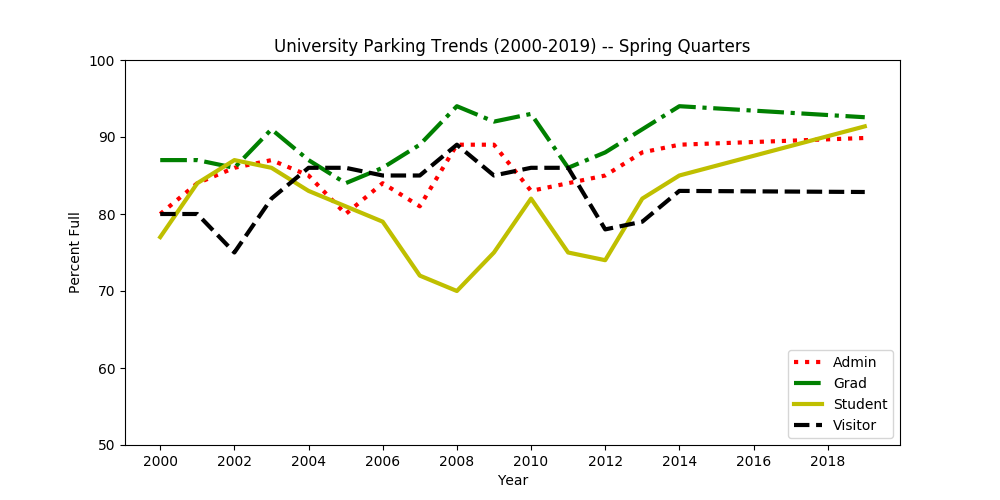
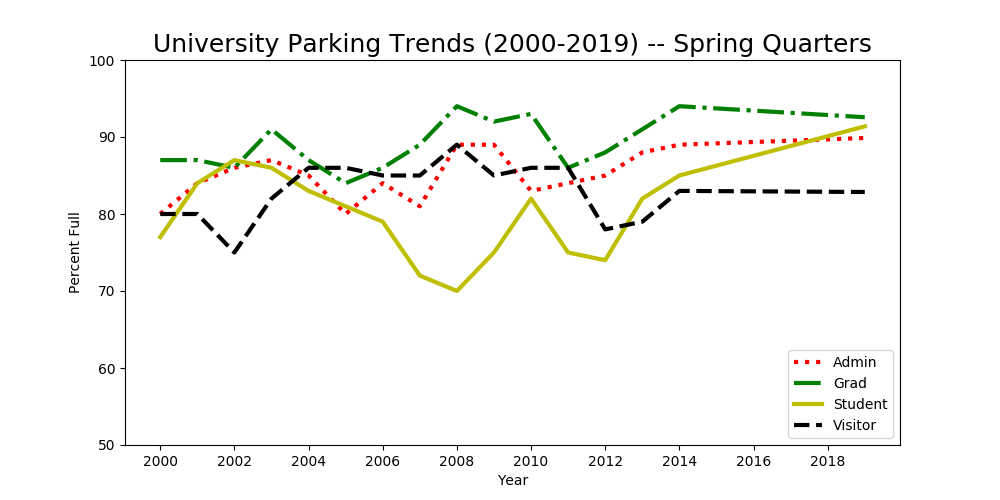
Final code functionality update

Changed region(s): [[0.155, 0.06, 0.868, 0.12]]

diff --git a/historical_peaks.py b/historical_peaks.py
@@ -1,77 +1,61 @@
-# read files by s, b, a. find area with best probability at a certain time
-# 1. collect all by s, b, or a 
-# 2. how have peak times changed
 import pandas as pd 
 import numpy as np 
 import matplotlib.pyplot as plt
 import matplotlib.dates as md
 import datetime as dt   
-from find_parking import *
+from find_parking import collect_dictionary
+from xcel_to_df import xcel_to_df
 
 def main():
 
-    quarter = 'Spring'
-    ax = compare_university(quarter)
+    # quarter = 'Spring'
+    # ax = compare_university(quarter)
 
-    ax.plot()
-    plt.yticks(np.arange(50, 101, step=10))
-    plt.title('University Parking Trends (2000-2019) -- '+quarter+' Quarters')
-    plt.ylabel('Percent Full')
-    plt.xlabel('Year')
+    dist_2000 = get_spot_distribution(2000)
+    dist_2015 = get_spot_distribution(2015)
+    dist_2019 = get_spot_distribution(2019)
 
-    plt.legend(loc = 'lower right')
-    plt.xticks(range(2000, 2020))
-    plt.locator_params(axis='x', nbins=10)
+    plt.subplot(1, 3, 1)
+    plt.pie(dist_2000, autopct='%1.0f%%', colors=['red', 'green', '#FFC133', 'gray'])
+    plt.title('Year 2000')
 
-    plt.savefig('images/'+quarter+'_history.png')
+    plt.subplot(1, 3, 2)
+    plt.pie(dist_2019, autopct='%1.0f%%',  colors=['red', 'green', '#FFC133', 'gray'])
+    plt.title('Year 2019')
+
+    plt.subplot(1, 3, 3)
+    plt.pie(dist_2015, autopct='%1.0f%%',  colors=['red', 'green', '#FFC133', 'gray'])
+    plt.title('Year 2015')
+
+
+    plt.legend(['Admin (A)', 'Grad (B)', 'Student (S)', 'Visitor (V)'], loc = 'lower left', bbox_to_anchor=(-0.4, -.24, 0.5, 0.5))
+    plt.savefig('Spot Distributions', dpi=300)
     
 
-def where_to_park(quarter='Fall', time='10am', spot_type='S'):
-    '''
-    Based on past data, which area of campus are you most likeley to find a spot 
-    at? Provide the user with a few visuals so they can determine where they 
-    would like to go to
+    # ax.plot()
+    # plt.yticks(np.arange(50, 101, step=10))
+    # plt.title('University Parking Trends (2000-2019) -- '+quarter+' Quarters', fontsize=18)
+    # plt.ylabel('Percent Full')
+    # plt.xlabel('Year')
+# 
+    # plt.legend(loc = 'lower right')
+    # plt.xticks(range(2000, 2020))
+    # plt.locator_params(axis='x', nbins=10)
+# 
+    # plt.savefig('images/'+quarter+'_history.png')
     
-    Note:   I will work on this in this application later, I just want to get what
-            I have up on github incase we can't all meet with the TA together
-                -Matthew
-    '''
-    pass
-    
-def view_quarter_peaks():
-    '''
-    See how the peak times change for a specific quarter through the years
-    
-    NOTE:   This visualization seems confusing and will probably not be used or
-            the visualization should be changed before use. 
-                -Matthew
-    '''
-    df = pd.read_csv('csv_data/University-wide/University_of_California,_San_Diego__A_Parking_Spaces.csv')
-    fall = df.loc[df['quarter'] == 'Spring']
-    f_times = fall.loc[:,'8am':'5pm']
-    years = fall.loc[:, 'year'].values
-  
-    s_yr = []
-    
-    for el in years:      
-        s_yr.append(el[2:el.find('/')]) # change 2000/01 --> 00 for all years
-        
-    
-    str_times = f_times.idxmin(axis=1) # returns the column where the Peak time occurs
-
-    fixed = ['12pm' if el=='12am' else el for el in str_times]
-
-    peak_times = pd.to_datetime(fixed, format='%I%p')
-  
-    df = pd.DataFrame({'peak':peak_times.values, 'year' : s_yr})
-     
-    plt.plot(df.year, df.peak)
-    plt.xticks(s_yr)
-
 def compare_university(quarter_name):
     '''
-    Shows A,B,S usage trends through all years and quarters of data (Summer Excluded)
+    Shows A,B,S, V usage trends through all years for a specified quarter
+
+    :param quarter_name: What quarter to view the trends throughout all years
+    :type  quarter_name: str
     '''
+    assert isinstance(quarter_name, str)
+
+    quarters = ['Spring', 'Winter', 'Fall']
+    assert quarter_name in quarters
+
     frame_dict = collect_dictionary()
     percentage_dict = get_peak_percentages(frame_dict)
 
@@ -109,7 +93,7 @@ def compare_university(quarter_name):
 
     
 
-        series1 = np.array(l).astype(np.double) * 100
+        series1 = np.array(l).astype(np.double) * 100 #turn into percent values
         s1mask = np.isfinite(series1)
 
         s2 = list(range(2000, 2020))
@@ -119,10 +103,112 @@ def compare_university(quarter_name):
         s2 = np.array(s2).astype(np.double)
         s2mask = np.isfinite(s2)
 
-        ax.plot(s2[s2mask],series1[s1mask], color[i] , label= label[i], linestyle = marker[i], linewidth=3)
+        ax.plot(s2[s2mask],series1[s1mask], color[i] , label= label[i], linestyle = marker[i], linewidth=3) #stackoverflow: connect lines betwenn 'None'
 
     return ax
 
+def get_spot_distribution(year):
+    '''
+    For a specified year, get the University's spot distribution by type of 
+    parking spot.
+
+    :param year: what year to look at spot distributions
+    :type  year: int
+
+    Returns list of percentages in order of [A, B, S, V]
+    '''
+    assert isinstance(year, int)
+    assert 1999 < year < 2016 or year==2019 , "Year not in dataset"
+
+    if year < 2016: 
+    
+        dfA = pd.read_csv('csv_data/University-wide/University_of_California,_San_Diego__A_Parking_Spaces.csv')
+        dfB = pd.read_csv('csv_data/University-wide/University_of_California,_San_Diego__B_Parking_Spaces.csv')
+        dfS = pd.read_csv('csv_data/University-wide/University_of_California,_San_Diego__S_Parking_Spaces.csv')
+        dfV = pd.read_csv('csv_data/University-wide/University_of_California,_San_Diego__Visitor_Parking_Spaces.csv')
+
+        frames = [dfA, dfB, dfS, dfV]
+
+        total_spaces = 0
+        type_totals = np.zeros(4)
+
+        frame_year_idx = (year-2000) * 3 # 3 quarters in each year, so skips every 3 to get to new year 
+
+        for i,frame in enumerate(frames): 
+        
+            type_totals[i] = frame.iloc[frame_year_idx]['parking_spaces']
+            total_spaces += type_totals[i]
+
+    elif year == 2019: 
+        dfA = xcel_to_df('excel_data/2019_data/Sp19_wk2_A.xlsx')
+        dfB = xcel_to_df('excel_data/2019_data/Sp19_wk2_B.xlsx')
+        dfS = xcel_to_df('excel_data/2019_data/Sp19_wk2_S.xlsx')
+        dfV = xcel_to_df('excel_data/2019_data/Sp19_wk2_V.xlsx')
+
+        frames = [dfA, dfB, dfS, dfV]
+        total_spaces = 0
+        type_totals = np.zeros(4)
+
+        for i,frame in enumerate(frames): 
+
+            type_totals[i] = frame.loc[:, 'Total Spaces'].sum()
+            total_spaces += type_totals[i]
+
+    else: 
+        assert 0 , "Year couldn't be found in dataset"
+
+
+    return type_totals / total_spaces
+
+def get_peak_percentages(frame_dict):
+    '''
+    Return the dictionary for max peak time percentages per quarter per spot
+
+    - find min of row between mon-fri 
+    - max full is ( total - min_row )
+    - percent_full = sum(row_full) / sum(total_spaces)
+    - take average of weeks, return per type per quarter
+    '''
+    assert isinstance(frame_dict, dict) 
+
+    percent_occupied = {
+        'A': {  'Win19': 0,
+                'Sp19' : 0},
+        'B': {  'Win19': 0,
+                'Sp19' : 0},
+        'S': {  'Win19': 0,
+                'Sp19' : 0},
+        'V': {  'Win19': 0,
+                'Sp19' : 0},
+    }
+
+    for pType in frame_dict: 
+        for quarter in frame_dict[pType]:
+            space_total = 0
+            occupied_total = 0
+            for week in frame_dict[pType][quarter]:
+                df = frame_dict[pType][quarter][week]
+                space_total += df['Total Spaces'].sum()
+
+                times = [0] * 5 # 8am, 10am, 12pm, 2pm
+            
+
+                days_by_time = df.iloc[:, 3:] # gets mon-8 --> fri-2
+
+                for i in range(0,4): # 0-4 relates to 8am-2pm cuts
+                    at_time = days_by_time.iloc[:, [i, i+4, i+8, i+12, i+16]].astype('float64').mean(axis=1)
+                    times[i] = at_time
+                    
+                data = {'8': times[0], '10': times[1], '12': times[2], '2': times[3]}
+                time_df = pd.DataFrame(data)
+
+
+                occupied_total += (df['Total Spaces'] - time_df.min(axis=1) ).sum()
+              
+    
+            percent_occupied[pType][quarter] = occupied_total / space_total
+
+    return percent_occupied
 
     
     

diff --git a/find_parking.py b/find_parking.py
@@ -11,7 +11,26 @@ import re
 
 
 def main():
+    
+
+    frame_dictionary = collect_dictionary()
+   
+
+    lot, values = get_best_lot_times(frame_dictionary, 'S', 'Mon')
+
+    plt.bar(['8am', '10am', '12pm', '2pm'], values)
+    plt.title('Open Student Parking for Lot '+lot)
+    plt.xlabel('Time of Day')
+    plt.ylabel('Number of Open Spaces')
+    plt.savefig('images/best_lot.png')
+
+
+def collect_dictionary():
     '''
+    Here is where we hand pick the dataframes we want to work with and 
+    return them in an orderly manner
+
+ 
     frame_dictionary
     |
     |
@@ -28,38 +47,6 @@ def main():
     |---B---|     
 
 
-    '''
-
-    frame_dictionary = collect_dictionary()
-
-    get_peak_percentages(frame_dictionary)
-
-  
-
-   
-
-    lot, values = get_best_lot_times(frame_dictionary, 'S', 'Mon')
-
-    print(lot, values)
-
-    plt.bar(['8am', '10am', '12pm', '2pm'], values)
-    plt.title('Open Student Parking for Lot '+lot)
-    plt.xlabel('Time of Day')
-    plt.ylabel('Number of Open Spaces')
-    plt.savefig('images/best_lot.png')
-   
-
-    # plt.bar([[l8[0], l10[0], l12[0], l2[0]], [l8[1], l10[1],l12[1], l2[1]])
-    # plt.title('Student Spots on Mondays')
-    # plt.savefig('test.png')
-  
-    
-    #find best lots throughout the day? best spot for 8am-2pm
-
-def collect_dictionary():
-    '''
-    Here is where we hand pick the dataframes we want to work with and 
-    return them in an orderly manner
     '''
     path = 'excel_data/2019_data/'
     d = {}
@@ -191,55 +178,7 @@ def find_best_lot(aDict, aType, aDay, aTime):
 
     return (lot, n_spots )
 
-def get_peak_percentages(frame_dict):
-    '''
-    Return the dictionary for max peak time percentages per quarter per spot
 
-    - find min of row between mon-fri 
-    - max full is ( total - min_row )
-    - percent_full = sum(row_full) / sum(total_spaces)
-    - take average of weeks, return per type per quarter
-    '''
-    assert isinstance(frame_dict, dict) 
-
-    percent_occupied = {
-        'A': {  'Win19': 0,
-                'Sp19' : 0},
-        'B': {  'Win19': 0,
-                'Sp19' : 0},
-        'S': {  'Win19': 0,
-                'Sp19' : 0},
-        'V': {  'Win19': 0,
-                'Sp19' : 0},
-    }
-
-    for pType in frame_dict: 
-        for quarter in frame_dict[pType]:
-            space_total = 0
-            occupied_total = 0
-            for week in frame_dict[pType][quarter]:
-                df = frame_dict[pType][quarter][week]
-                space_total += df['Total Spaces'].sum()
-
-                times = [0] * 5 # 8am, 10am, 12pm, 2pm
-            
-
-                days_by_time = df.iloc[:, 3:] # gets mon-8 --> fri-2
-
-                for i in range(0,4): # 0-4 relates to 8am-2pm cuts
-                    at_time = days_by_time.iloc[:, [i, i+4, i+8, i+12, i+16]].astype('float64').mean(axis=1)
-                    times[i] = at_time
-                    
-                data = {'8': times[0], '10': times[1], '12': times[2], '2': times[3]}
-                time_df = pd.DataFrame(data)
-
-
-                occupied_total += (df['Total Spaces'] - time_df.min(axis=1) ).sum()
-              
-    
-            percent_occupied[pType][quarter] = occupied_total / space_total
-
-    return percent_occupied
 
 
 
